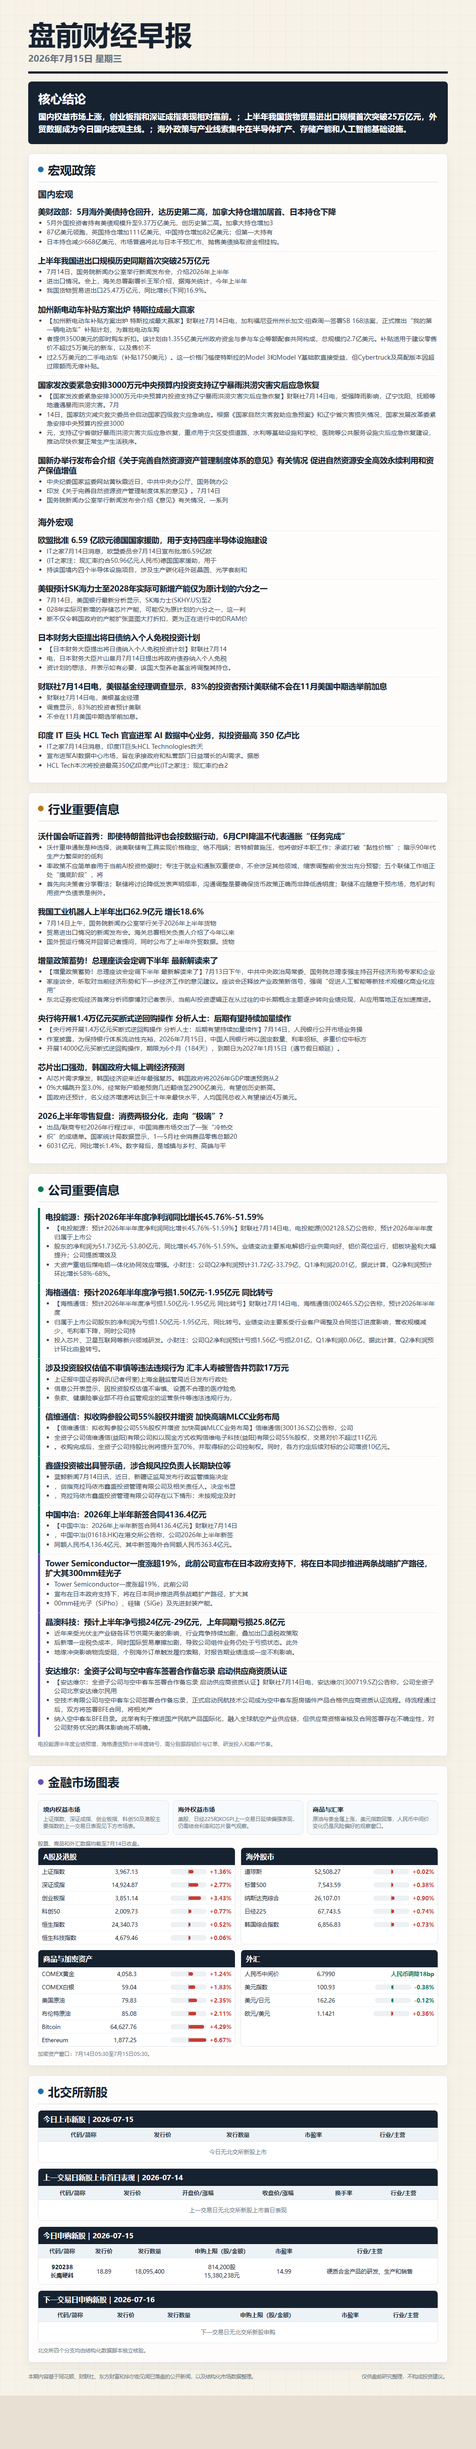
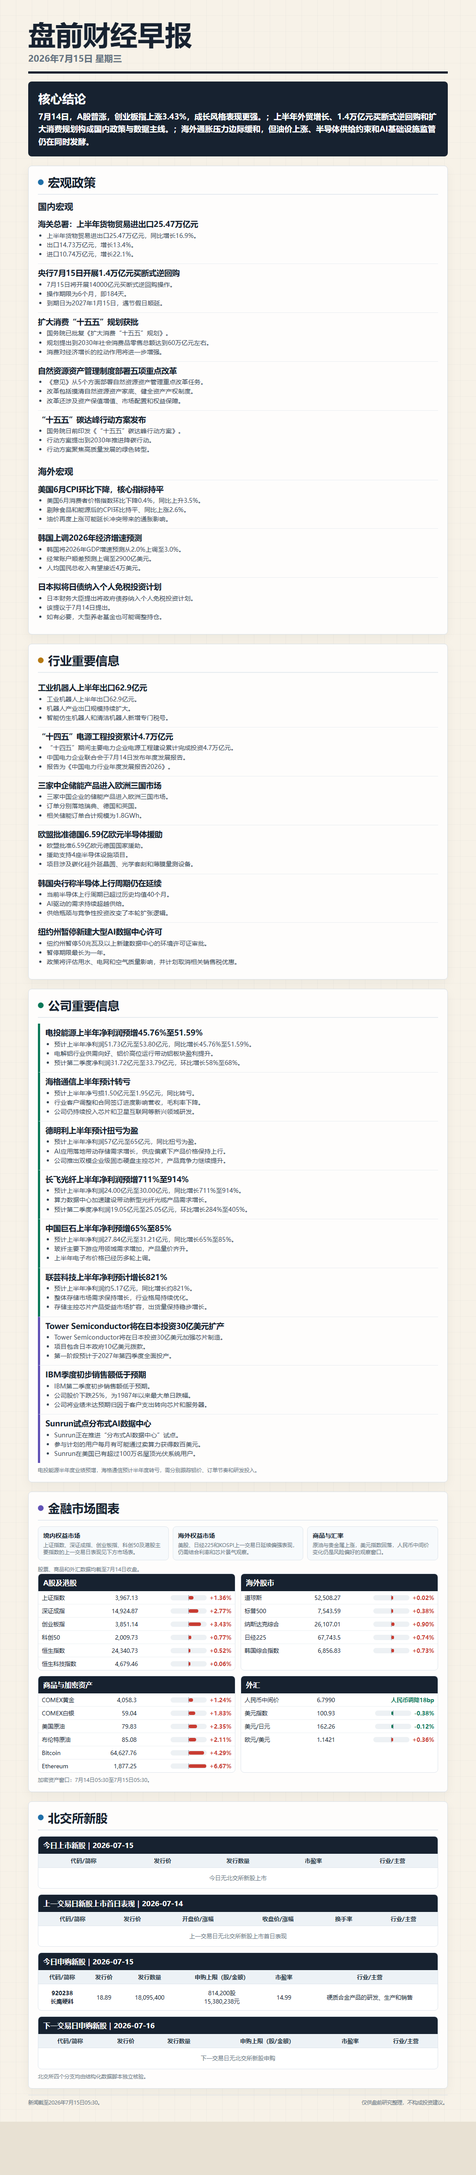
Correct 2026-07-15 morning brief

Changed region(s): [[0.0611, 0.0, 0.9472, 0.9672]]

diff --git a/2026-07-15/report.html b/2026-07-15/report.html
@@ -23,111 +23,103 @@
 </head>
 <body><main class="sheet">
   <header><h1>盘前财经早报</h1><div class="date">2026年7月15日 星期三</div></header>
-  <section class="lead"><h2>核心结论</h2><p>国内权益市场上涨，创业板指和深证成指表现相对靠前。；上半年我国货物贸易进出口规模首次突破25万亿元，外贸数据成为今日国内宏观主线。；海外政策与产业线索集中在半导体扩产、存储产能和人工智能基础设施。</p></section>
+  <section class="lead"><h2>核心结论</h2><p>7月14日，A股普涨，创业板指上涨3.43%，成长风格表现更强。；上半年外贸增长、1.4万亿元买断式逆回购和扩大消费规划构成国内政策与数据主线。；海外通胀压力边际缓和，但油价上涨、半导体供给约束和AI基础设施监管仍在同时发酵。</p></section>
   <section class="section"><h2 class="section-title"><span class="dot"></span>宏观政策</h2><h3 class="subhead">国内宏观</h3>
     <article class="item ">
-      <h4>美财政部：5月海外美债持仓回升，达历史第二高，加拿大持仓增加居首、日本持仓下降</h4>
-      <ul><li>5月外国投资者持有美债规模升至9.37万亿美元，创历史第二高。加拿大持仓增加3</li><li>87亿美元领跑，英国持仓增加111亿美元、中国持仓增加82亿美元；但第一大持有</li><li>日本持仓减少668亿美元，市场普遍将此与日本干预汇市、抛售美债换取资金相挂钩。</li></ul>
+      <h4>海关总署：上半年货物贸易进出口25.47万亿元</h4>
+      <ul><li>上半年货物贸易进出口25.47万亿元，同比增长16.9%。</li><li>出口14.73万亿元，增长13.4%。</li><li>进口10.74万亿元，增长22.1%。</li></ul>
     </article>
     <article class="item ">
-      <h4>上半年我国进出口规模历史同期首次突破25万亿元</h4>
-      <ul><li>7月14日，国务院新闻办公室举行新闻发布会，介绍2026年上半年</li><li>进出口情况。会上，海关总署副署长王军介绍，据海关统计，今年上半年</li><li>我国货物贸易进出口25.47万亿元，同比增长(下同)16.9%。</li></ul>
+      <h4>央行7月15日开展1.4万亿元买断式逆回购</h4>
+      <ul><li>7月15日将开展14000亿元买断式逆回购操作。</li><li>操作期限为6个月，即184天。</li><li>到期日为2027年1月15日，遇节假日顺延。</li></ul>
     </article>
     <article class="item ">
-      <h4>加州新电动车补贴方案出炉 特斯拉成最大赢家</h4>
-      <ul><li>【加州新电动车补贴方案出炉 特斯拉成最大赢家】财联社7月14日电，加利福尼亚州州长加文·纽森周一签署SB 168法案，正式推出“我的第一辆电动车”补贴计划，为首批电动车购</li><li>者提供3500美元的即时购车折扣。该计划由1.355亿美元州政府资金与参与车企等额配套共同构成，总规模约2.7亿美元。补贴适用于建议零售价不超过5万美元的新车，以及售价不</li><li>过2.5万美元的二手电动车（补贴1750美元）。这一价格门槛使特斯拉的Model 3和Model Y基础款直接受益，但Cybertruck及高配版本因超过限额而无缘补贴。</li></ul>
+      <h4>扩大消费“十五五”规划获批</h4>
+      <ul><li>国务院已批复《扩大消费“十五五”规划》。</li><li>规划提出到2030年社会消费品零售总额达到60万亿元左右。</li><li>消费对经济增长的拉动作用将进一步增强。</li></ul>
     </article>
     <article class="item ">
-      <h4>国家发改委紧急安排3000万元中央预算内投资支持辽宁暴雨洪涝灾害灾后应急恢复</h4>
-      <ul><li>【国家发改委紧急安排3000万元中央预算内投资支持辽宁暴雨洪涝灾害灾后应急恢复】财联社7月14日电，受强降雨影响，辽宁沈阳、抚顺等地遭遇暴雨洪涝灾害。7月</li><li>14日，国家防灾减灾救灾委员会启动国家四级救灾应急响应。根据《国家自然灾害救助应急预案》和辽宁省灾害损失情况，国家发展改革委紧急安排中央预算内投资3000</li><li>元，支持辽宁省做好暴雨洪涝灾害灾后应急恢复，重点用于灾区受损道路、水利等基础设施和学校、医院等公共服务设施灾后应急恢复建设，推动尽快恢复正常生产生活秩序。</li></ul>
+      <h4>自然资源资产管理制度部署五项重点改革</h4>
+      <ul><li>《意见》从5个方面部署自然资源资产管理重点改革任务。</li><li>改革包括摸清自然资源资产家底、健全资产产权制度。</li><li>改革还涉及资产保值增值、市场配置和权益保障。</li></ul>
     </article>
     <article class="item ">
-      <h4>国新办举行发布会介绍《关于完善自然资源资产管理制度体系的意见》有关情况 促进自然资源安全高效永续利用和资产保值增值</h4>
-      <ul><li>中央纪委国家监委网站黄秋霞近日，中共中央办公厅、国务院办公</li><li>印发《关于完善自然资源资产管理制度体系的意见》。7月14日</li><li>国务院新闻办公室举行新闻发布会介绍《意见》有关情况，一系列</li></ul>
+      <h4>“十五五”碳达峰行动方案发布</h4>
+      <ul><li>国务院日前印发《“十五五”碳达峰行动方案》。</li><li>行动方案提出到2030年推进降碳行动。</li><li>行动方案聚焦高质量发展的绿色转型。</li></ul>
     </article><h3 class="subhead">海外宏观</h3>
     <article class="item ">
-      <h4>欧盟批准 6.59 亿欧元德国国家援助，用于支持四座半导体设施建设</h4>
-      <ul><li>IT之家7月14日消息，欧盟委员会7月14日宣布批准6.59亿欧</li><li>(IT之家注：现汇率约合50.96亿元人民币)德国国家援助，用于</li><li>持该国境内四个半导体设施项目，涉及生产碳化硅外延晶圆、光学套刻和</li></ul>
+      <h4>美国6月CPI环比下降，核心指标持平</h4>
+      <ul><li>美国6月消费者价格指数环比下降0.4%，同比上升3.5%。</li><li>剔除食品和能源后的CPI环比持平、同比上涨2.6%。</li><li>油价再度上涨可能延长冲突带来的通胀影响。</li></ul>
     </article>
     <article class="item ">
-      <h4>美银预计SK海力士至2028年实际可新增产能仅为原计划的六分之一</h4>
-      <ul><li>7月14日，美国银行最新分析显示，SK海力士(SKHY.US)至2</li><li>028年实际可新增的存储芯片产能，可能仅为原计划的六分之一，这一判</li><li>断不仅令韩国政府的产能扩张蓝图大打折扣，更为正在进行中的DRAM价</li></ul>
+      <h4>韩国上调2026年经济增速预测</h4>
+      <ul><li>韩国将2026年GDP增速预测从2.0%上调至3.0%。</li><li>经常账户顺差预测上调至2900亿美元。</li><li>人均国民总收入有望接近4万美元。</li></ul>
     </article>
     <article class="item ">
-      <h4>日本财务大臣提出将日债纳入个人免税投资计划</h4>
-      <ul><li>【日本财务大臣提出将日债纳入个人免税投资计划】财联社7月14</li><li>电，日本财务大臣片山皋月7月14日提出将政府债券纳入个人免税</li><li>资计划的想法，并表示如有必要，该国大型养老基金将调整其持仓。</li></ul>
-    </article>
-    <article class="item ">
-      <h4>财联社7月14日电，美银基金经理调查显示，83%的投资者预计美联储不会在11月美国中期选举前加息</h4>
-      <ul><li>财联社7月14日电，美银基金经理</li><li>调查显示，83%的投资者预计美联</li><li>不会在11月美国中期选举前加息。</li></ul>
-    </article>
-    <article class="item ">
-      <h4>印度 IT 巨头 HCL Tech 官宣进军 AI 数据中心业务，拟投资最高 350 亿卢比</h4>
-      <ul><li>IT之家7月14日消息，印度IT巨头HCL Technologies昨天</li><li>宣布进军AI数据中心市场，旨在承接政府和私营部门日益增长的AI需求。据悉</li><li>HCL Tech本次将投资最高350亿印度卢比(IT之家注：现汇率约合2</li></ul>
+      <h4>日本拟将日债纳入个人免税投资计划</h4>
+      <ul><li>日本财务大臣提出将政府债券纳入个人免税投资计划。</li><li>该提议于7月14日提出。</li><li>如有必要，大型养老基金也可能调整持仓。</li></ul>
     </article></section>
   <section class="section"><h2 class="section-title"><span class="dot" style="background:var(--gold)"></span>行业重要信息</h2>
     <article class="item ">
-      <h4>沃什国会听证首秀：即使特朗普批评也会按数据行动，6月CPI降温不代表通胀“任务完成”</h4>
-      <ul><li>沃什重申通胀是种选择，说美联储有工具实现价格稳定、绝不甩锅；若特朗普施压，他将做好本职工作；承诺打破“黏性价格”；暗示90年代生产力繁荣时的低利</li><li>率政策不应简单套用于当前AI投资热潮时；专注于就业和通胀双重使命，不会涉足其他领域，缩表调整前会发出充分预警；五个联储工作组正处“摸底阶段”，将</li><li>首先向决策者分享看法；联储将讨论降低发表声明频率，沟通调整是要确保货币政策正确而非降低透明度；联储不应随意干预市场，危机时利用资产负债表是例外。</li></ul>
+      <h4>工业机器人上半年出口62.9亿元</h4>
+      <ul><li>工业机器人上半年出口62.9亿元。</li><li>机器人产业出口规模持续扩大。</li><li>智能仿生机器人和清洁机器人新增专门税号。</li></ul>
     </article>
     <article class="item ">
-      <h4>我国工业机器人上半年出口62.9亿元 增长18.6%</h4>
-      <ul><li>7月14日上午，国务院新闻办公室举行关于2026年上半年货物</li><li>贸易进出口情况的新闻发布会。海关总署相关负责人介绍了今年以来</li><li>国外贸运行情况并回答记者提问，同时公布了上半年外贸数据。货物</li></ul>
+      <h4>“十四五”电源工程投资累计4.7万亿元</h4>
+      <ul><li>“十四五”期间主要电力企业电源工程建设累计完成投资4.7万亿元。</li><li>中国电力企业联合会于7月14日发布年度发展报告。</li><li>报告为《中国电力行业年度发展报告2026》。</li></ul>
     </article>
     <article class="item ">
-      <h4>增量政策蓄势！总理座谈会定调下半年 最新解读来了</h4>
-      <ul><li>【增量政策蓄势！总理座谈会定调下半年 最新解读来了】7月13日下午，中共中央政治局常委、国务院总理李强主持召开经济形势专家和企业</li><li>家座谈会，听取对当前经济形势和下一步经济工作的意见建议。座谈会还释放产业政策新信号，强调“促进人工智能等新技术规模化商业化应用”</li><li>东北证券宏观经济首席分析师廖博对记者表示，当前AI投资逻辑正在从过往的中长期概念主题逐步转向业绩兑现，AI应用落地正在加速推进。</li></ul>
+      <h4>三家中企储能产品进入欧洲三国市场</h4>
+      <ul><li>三家中国企业的储能产品进入欧洲三国市场。</li><li>订单分别落地瑞典、德国和英国。</li><li>相关储能订单合计规模为1.8GWh。</li></ul>
     </article>
     <article class="item ">
-      <h4>央行将开展1.4万亿元买断式逆回购操作 分析人士：后期有望持续加量续作</h4>
-      <ul><li>【央行将开展1.4万亿元买断式逆回购操作 分析人士：后期有望持续加量续作】7月14日，人民银行公开市场业务操</li><li>作室披露，为保持银行体系流动性充裕，2026年7月15日，中国人民银行将以固定数量、利率招标、多重价位中标方</li><li>开展14000亿元买断式逆回购操作，期限为6个月（184天），到期日为2027年1月15日（遇节假日顺延）。</li></ul>
+      <h4>欧盟批准德国6.59亿欧元半导体援助</h4>
+      <ul><li>欧盟批准6.59亿欧元德国国家援助。</li><li>援助支持4座半导体设施项目。</li><li>项目涉及碳化硅外延晶圆、光学套刻和薄膜量测设备。</li></ul>
     </article>
     <article class="item ">
-      <h4>芯片出口强劲，韩国政府大幅上调经济预测</h4>
-      <ul><li>AI芯片需求爆发，韩国经济迎来近年最强复苏。韩国政府将2026年GDP增速预测从2</li><li>0%大幅跳升至3.0%，经常账户顺差预测几近翻倍至2900亿美元，有望创历史新高。</li><li>国政府还预计，名义经济增速将达到三十年来最快水平，人均国民总收入有望接近4万美元。</li></ul>
+      <h4>韩国央行称半导体上行周期仍在延续</h4>
+      <ul><li>当前半导体上行周期已超过历史均值40个月。</li><li>AI驱动的需求持续超越供给。</li><li>供给瓶颈与竞争性投资改变了本轮扩张逻辑。</li></ul>
     </article>
     <article class="item ">
-      <h4>2026上半年零售复盘：消费两极分化，走向“极端”？</h4>
-      <ul><li>出品/联商专栏2026年行程过半，中国消费市场交出了一张“冷热交</li><li>织”的成绩单。国家统计局数据显示，1—5月社会消费品零售总额20</li><li>6031亿元，同比增长1.4%。数字背后，是城镇与乡村、高端与平</li></ul>
+      <h4>纽约州暂停新建大型AI数据中心许可</h4>
+      <ul><li>纽约州暂停50兆瓦及以上新建数据中心的环境许可证审批。</li><li>暂停期限最长为一年。</li><li>政策将评估用水、电网和空气质量影响，并计划取消相关销售税优惠。</li></ul>
     </article></section>
   <section class="section"><h2 class="section-title"><span class="dot" style="background:var(--green)"></span>公司重要信息</h2>
     <article class="item company-line">
-      <h4>电投能源：预计2026年半年度净利润同比增长45.76%-51.59%</h4>
-      <ul><li>【电投能源：预计2026年半年度净利润同比增长45.76%-51.59%】财联社7月14日电，电投能源(002128.SZ)公告称，预计2026年半年度归属于上市公</li><li>股东的净利润为51.73亿元-53.80亿元，同比增长45.76%-51.59%。业绩变动主要系电解铝行业供需向好、铝价高位运行，铝板块盈利大幅提升；公司提质增效及</li><li>大资产重组后煤电铝一体化协同效应增强。小财注：公司Q2净利润预计31.72亿-33.79亿，Q1净利润20.01亿，据此计算，Q2净利润预计环比增长58%-68%。</li></ul>
+      <h4>电投能源上半年净利润预增45.76%至51.59%</h4>
+      <ul><li>预计上半年净利润51.73亿元至53.80亿元，同比增长45.76%至51.59%。</li><li>电解铝行业供需向好、铝价高位运行带动铝板块盈利提升。</li><li>预计第二季度净利润31.72亿元至33.79亿元，环比增长58%至68%。</li></ul>
     </article>
     <article class="item company-line">
-      <h4>海格通信：预计2026年半年度净亏损1.50亿元-1.95亿元 同比转亏</h4>
-      <ul><li>【海格通信：预计2026年半年度净亏损1.50亿元-1.95亿元 同比转亏】财联社7月14日电，海格通信(002465.SZ)公告称，预计2026年半年度</li><li>归属于上市公司股东的净利润为亏损1.50亿元-1.95亿元，同比转亏。业绩变动主要系受行业客户调整及合同签订进度影响，营收规模减少，毛利率下降，同时公司持</li><li>投入芯片、卫星互联网等新兴领域研发。小财注：公司Q2净利润预计亏损1.56亿-亏损2.01亿，Q1净利润0.06亿，据此计算，Q2净利润预计环比由盈转亏。</li></ul>
+      <h4>海格通信上半年预计转亏</h4>
+      <ul><li>预计上半年净亏损1.50亿元至1.95亿元，同比转亏。</li><li>行业客户调整和合同签订进度影响营收，毛利率下降。</li><li>公司仍持续投入芯片和卫星互联网等新兴领域研发。</li></ul>
     </article>
     <article class="item company-line">
-      <h4>涉及投资股权估值不审慎等违法违规行为 汇丰人寿被警告并罚款17万元</h4>
-      <ul><li>上证报中国证券网讯(记者何奎)上海金融监管局近日发布行政处</li><li>信息公开表显示，因投资股权估值不审慎、设置不合理的医疗险免</li><li>条款、健康险事业部不符合监管规定的运营条件等违法违规行为，</li></ul>
+      <h4>德明利上半年预计扭亏为盈</h4>
+      <ul><li>预计上半年净利润57亿元至65亿元，同比扭亏为盈。</li><li>AI应用落地带动存储需求增长，供应偏紧下产品价格保持上行。</li><li>公司推出双模企业级固态硬盘主控芯片，产品竞争力继续提升。</li></ul>
     </article>
     <article class="item company-line">
-      <h4>信维通信：拟收购参股公司55%股权并增资 加快高端MLCC业务布局</h4>
-      <ul><li>【信维通信：拟收购参股公司55%股权并增资 加快高端MLCC业务布局】信维通信(300136.SZ)公告称，公司</li><li>全资子公司信维通信(益阳)有限公司拟以现金方式收购信维电子科技(益阳)有限公司55%股权，交易对价不超过11亿元</li><li>。收购完成后，全资子公司持股比例将提升至70%，并取得标的公司控制权。同时，各方约定后续对标的公司增资10亿元。</li></ul>
+      <h4>长飞光纤上半年净利润预增711%至914%</h4>
+      <ul><li>预计上半年净利润24.00亿元至30.00亿元，同比增长711%至914%。</li><li>算力数据中心加速建设带动新型光纤光缆产品需求增长。</li><li>预计第二季度净利润19.05亿元至25.05亿元，环比增长284%至405%。</li></ul>
     </article>
     <article class="item company-line">
-      <h4>鑫盛投资被出具警示函，涉合规风控负责人长期缺位等</h4>
-      <ul><li>蓝鲸新闻7月14日讯，近日，新疆证监局发布行政监管措施决定</li><li>，剑指克拉玛依市鑫盛投资管理有限公司及相关责任人。决定书显</li><li>，克拉玛依市鑫盛投资管理有限公司存在以下情形：未按规定及时</li></ul>
+      <h4>中国巨石上半年净利预增65%至85%</h4>
+      <ul><li>预计上半年净利润27.84亿元至31.21亿元，同比增长65%至85%。</li><li>玻纤主要下游应用领域需求增加，产品量价齐升。</li><li>上半年电子布价格已经历多轮上调。</li></ul>
     </article>
     <article class="item company-line">
-      <h4>中国中冶：2026年上半年新签合同4136.4亿元</h4>
-      <ul><li>【中国中冶：2026年上半年新签合同4136.4亿元】财联社7月14日</li><li>，中国中冶(01618.HK)在港交所公告称，公司2026年上半年新签</li><li>同额人民币4,136.4亿元，其中新签海外合同额人民币363.4亿元。</li></ul>
+      <h4>联芸科技上半年净利预计增长821%</h4>
+      <ul><li>预计上半年净利润约5.17亿元，同比增长约821%。</li><li>整体存储市场需求保持增长，行业格局持续优化。</li><li>存储主控芯片产品受益市场扩容，出货量保持稳步增长。</li></ul>
     </article>
     <article class="item company-line overseas">
-      <h4>Tower Semiconductor一度涨超19%，此前公司宣布在日本政府支持下，将在日本同步推进两条战略扩产路径，扩大其300mm硅光子</h4>
-      <ul><li>Tower Semiconductor一度涨超19%，此前公司</li><li>宣布在日本政府支持下，将在日本同步推进两条战略扩产路径，扩大其</li><li>00mm硅光子（SiPho）、硅锗（SiGe）及先进封装产能。</li></ul>
+      <h4>Tower Semiconductor将在日本投资30亿美元扩产</h4>
+      <ul><li>Tower Semiconductor将在日本投资30亿美元加强芯片制造。</li><li>项目包含日本政府10亿美元拨款。</li><li>第一阶段预计于2027年第四季度全面投产。</li></ul>
     </article>
     <article class="item company-line overseas">
-      <h4>晶澳科技：预计上半年净亏损24亿元-29亿元，上年同期亏损25.8亿元</h4>
-      <ul><li>近年来受光伏主产业链各环节供需失衡的影响，行业竞争持续加剧，叠加出口退税政策取</li><li>后新增一定税负成本，同时国际贸易摩擦加剧，导致公司组件业务仍处于亏损状态。此外</li><li>地缘冲突影响物流受阻，个别海外订单触发履约索赔，对报告期业绩造成一定不利影响。</li></ul>
+      <h4>IBM季度初步销售额低于预期</h4>
+      <ul><li>IBM第二季度初步销售额低于预期。</li><li>公司股价下跌25%，为1987年以来最大单日跌幅。</li><li>公司将业绩未达预期归因于客户支出转向芯片和服务器。</li></ul>
     </article>
     <article class="item company-line overseas">
-      <h4>安达维尔：全资子公司与空中客车签署合作备忘录 启动供应商资质认证</h4>
-      <ul><li>【安达维尔：全资子公司与空中客车签署合作备忘录 启动供应商资质认证】财联社7月14日电，安达维尔(300719.SZ)公告称，公司全资子公司北京安达维尔民用</li><li>空技术有限公司与空中客车公司签署合作备忘录，正式启动民航技术公司成为空中客车厨房插件产品合格供应商资质认证流程。待流程通过后，双方将签署BFE合同，将相关产</li><li>纳入空中客车BFE目录。此举有利于推进国产民航产品国际化，融入全球航空产业供应链，但供应商资格审核及合同签署存在不确定性，对公司财务状况的具体影响尚不明确。</li></ul>
-    </article><p class="check-note">电投能源半年度业绩预增，海格通信预计半年度转亏，需分别跟踪铝价与订单、研发投入和客户节奏。</p></section>
+      <h4>Sunrun试点分布式AI数据中心</h4>
+      <ul><li>Sunrun正在推进“分布式AI数据中心”试点。</li><li>参与计划的用户每月有可能通过卖算力获得数百美元。</li><li>Sunrun在美国已有超过100万名屋顶光伏系统用户。</li></ul>
+    </article><p class="check-note">电投能源半年度业绩预增，海格通信预计半年度转亏，需分别跟踪铝价、订单节奏和研发投入。</p></section>
   <section class="section"><h2 class="section-title"><span class="dot" style="background:var(--violet)"></span>金融市场图表</h2><div class="market-headlines"><div class="market-note"><b>境内权益市场</b><span>上证指数、深证成指、创业板指、科创50及港股主要指数的上一交易日表现见下方市场表。</span></div><div class="market-note"><b>海外权益市场</b><span>美股、日经225和KOSPI上一交易日延续偏强表现，仍需结合利率和芯片景气观察。</span></div><div class="market-note"><b>商品与汇率</b><span>原油与贵金属上涨，美元指数回落，人民币中间价变化仍是风险偏好的观察窗口。</span></div></div><p class="market-caption">股票、商品和外汇数据均截至7月14日收盘。</p><div class="market-grid"><div class="market-box"><h3>A股及港股</h3><table><tr><td>上证指数</td><td>3,967.13</td><td><span class="bar-wrap"><span class="bar pos upb" style="width:10.9px"></span></span><span class="up">+1.36%</span></td></tr><tr><td>深证成指</td><td>14,924.87</td><td><span class="bar-wrap"><span class="bar pos upb" style="width:22.1px"></span></span><span class="up">+2.77%</span></td></tr><tr><td>创业板指</td><td>3,851.14</td><td><span class="bar-wrap"><span class="bar pos upb" style="width:27.4px"></span></span><span class="up">+3.43%</span></td></tr><tr><td>科创50</td><td>2,009.73</td><td><span class="bar-wrap"><span class="bar pos upb" style="width:6.2px"></span></span><span class="up">+0.77%</span></td></tr><tr><td>恒生指数</td><td>24,340.73</td><td><span class="bar-wrap"><span class="bar pos upb" style="width:4.2px"></span></span><span class="up">+0.52%</span></td></tr><tr><td>恒生科技指数</td><td>4,679.46</td><td><span class="bar-wrap"><span class="bar pos upb" style="width:4.0px"></span></span><span class="up">+0.06%</span></td></tr></table></div><div class="market-box"><h3>海外股市</h3><table><tr><td>道琼斯</td><td>52,508.27</td><td><span class="bar-wrap"><span class="bar pos upb" style="width:4.0px"></span></span><span class="up">+0.02%</span></td></tr><tr><td>标普500</td><td>7,543.59</td><td><span class="bar-wrap"><span class="bar pos upb" style="width:4.0px"></span></span><span class="up">+0.38%</span></td></tr><tr><td>纳斯达克综合</td><td>26,107.01</td><td><span class="bar-wrap"><span class="bar pos upb" style="width:7.2px"></span></span><span class="up">+0.90%</span></td></tr><tr><td>日经225</td><td>67,743.5</td><td><span class="bar-wrap"><span class="bar pos upb" style="width:6.0px"></span></span><span class="up">+0.74%</span></td></tr><tr><td>韩国综合指数</td><td>6,856.83</td><td><span class="bar-wrap"><span class="bar pos upb" style="width:5.9px"></span></span><span class="up">+0.73%</span></td></tr></table></div><div class="market-box"><h3>商品与加密资产</h3><table><tr><td>COMEX黄金</td><td>4,058.3</td><td><span class="bar-wrap"><span class="bar pos upb" style="width:9.9px"></span></span><span class="up">+1.24%</span></td></tr><tr><td>COMEX白银</td><td>59.04</td><td><span class="bar-wrap"><span class="bar pos upb" style="width:14.6px"></span></span><span class="up">+1.83%</span></td></tr><tr><td>美国原油</td><td>79.83</td><td><span class="bar-wrap"><span class="bar pos upb" style="width:18.8px"></span></span><span class="up">+2.35%</span></td></tr><tr><td>布伦特原油</td><td>85.08</td><td><span class="bar-wrap"><span class="bar pos upb" style="width:16.9px"></span></span><span class="up">+2.11%</span></td></tr><tr><td>Bitcoin</td><td>64,627.76</td><td><span class="bar-wrap"><span class="bar pos upb" style="width:34.3px"></span></span><span class="up">+4.29%</span></td></tr><tr><td>Ethereum</td><td>1,877.25</td><td><span class="bar-wrap"><span class="bar pos upb" style="width:40.0px"></span></span><span class="up">+6.67%</span></td></tr></table></div><div class="market-box"><h3>外汇</h3><table><tr><td>人民币中间价</td><td>6.7990</td><td><span class="down">人民币调降18bp</span></td></tr><tr><td>美元指数</td><td>100.93</td><td><span class="bar-wrap"><span class="bar neg downb" style="width:4.0px"></span></span><span class="down">-0.38%</span></td></tr><tr><td>美元/日元</td><td>162.26</td><td><span class="bar-wrap"><span class="bar neg downb" style="width:4.0px"></span></span><span class="down">-0.12%</span></td></tr><tr><td>欧元/美元</td><td>1.1421</td><td><span class="bar-wrap"><span class="bar pos upb" style="width:4.0px"></span></span><span class="up">+0.36%</span></td></tr></table></div></div><p class="market-caption">加密资产窗口：7月14日05:30至7月15日05:30。</p></section>
   <section class="section"><h2 class="section-title"><span class="dot" style="background:var(--blue)"></span>北交所新股</h2><div class="ipo-box"><h3>今日上市新股｜2026-07-15</h3><table class="ipo-table"><tr><th>代码/简称</th><th>发行价</th><th>发行数量</th><th>市盈率</th><th>行业/主营</th></tr><tr><td class="empty" colspan="5">今日无北交所新股上市</td></tr></table></div><div class="ipo-box"><h3>上一交易日新股上市首日表现｜2026-07-14</h3><table class="ipo-table"><tr><th>代码/简称</th><th>发行价</th><th>开盘价/涨幅</th><th>收盘价/涨幅</th><th>换手率</th><th>行业/主营</th></tr><tr><td class="empty" colspan="6">上一交易日无北交所新股上市首日表现</td></tr></table></div><div class="ipo-box"><h3>今日申购新股｜2026-07-15</h3><table class="ipo-table"><tr><th>代码/简称</th><th>发行价</th><th>发行数量</th><th>申购上限（股/金额）</th><th>市盈率</th><th>行业/主营</th></tr><tr><td class="codecell">920238<br>长鹰硬科</td><td>18.89</td><td>18,095,400</td><td class="shares">814,200股<br>15,380,238元</td><td>14.99</td><td>硬质合金产品的研发、生产和销售</td></tr></table></div><div class="ipo-box"><h3>下一交易日申购新股｜2026-07-16</h3><table class="ipo-table"><tr><th>代码/简称</th><th>发行价</th><th>发行数量</th><th>申购上限（股/金额）</th><th>市盈率</th><th>行业/主营</th></tr><tr><td class="empty" colspan="6">下一交易日无北交所新股申购</td></tr></table></div><div class="check-note">北交所四个分支均由结构化数据脚本独立核验。</div></section>
-  <footer><div>本期内容基于同花顺、财联社、东方财富和华尔街见闻已落盘的公开新闻，以及结构化市场数据整理。</div><div>仅供盘前研究整理，不构成投资建议。</div></footer>
+  <footer><div>新闻截至2026年7月15日05:30。</div><div>仅供盘前研究整理，不构成投资建议。</div></footer>
 </main></body></html>

diff --git a/2026-07-15/sources-2026-07-15.md b/2026-07-15/sources-2026-07-15.md
@@ -10,28 +10,26 @@
 - 华尔街见闻: ok, 664 candidates - https://api-one.wallstcn.com/apiv1/content/lives?channel=global-channel
 
 ## Selected article URLs
-- domesticMacro: 美财政部：5月海外美债持仓回升，达历史第二高，加拿大持仓增加居首、日本持仓下降 - https://wallstreetcn.com/articles/3776943
-- domesticMacro: 上半年我国进出口规模历史同期首次突破25万亿元 - http://news.10jqka.com.cn/20260715/c678178934.shtml
-- domesticMacro: 加州新电动车补贴方案出炉 特斯拉成最大赢家 - https://www.cls.cn/detail/2426392
-- domesticMacro: 国家发改委紧急安排3000万元中央预算内投资支持辽宁暴雨洪涝灾害灾后应急恢复 - https://www.cls.cn/detail/2425884
-- domesticMacro: 国新办举行发布会介绍《关于完善自然资源资产管理制度体系的意见》有关情况 促进自然资源安全高效永续利用和资产保值增值 - http://news.10jqka.com.cn/20260714/c678177731.shtml
-- overseasMacro: 欧盟批准 6.59 亿欧元德国国家援助，用于支持四座半导体设施建设 - http://news.10jqka.com.cn/20260714/c678173812.shtml
-- overseasMacro: 美银预计SK海力士至2028年实际可新增产能仅为原计划的六分之一 - http://news.10jqka.com.cn/20260714/c678173387.shtml
-- overseasMacro: 日本财务大臣提出将日债纳入个人免税投资计划 - https://www.cls.cn/detail/2425852
-- overseasMacro: 财联社7月14日电，美银基金经理调查显示，83%的投资者预计美联储不会在11月美国中期选举前加息 - https://www.cls.cn/detail/2425783
-- overseasMacro: 印度 IT 巨头 HCL Tech 官宣进军 AI 数据中心业务，拟投资最高 350 亿卢比 - http://news.10jqka.com.cn/20260714/c678161048.shtml
-- industry: 沃什国会听证首秀：即使特朗普批评也会按数据行动，6月CPI降温不代表通胀“任务完成” - https://wallstreetcn.com/articles/3776932
-- industry: 我国工业机器人上半年出口62.9亿元 增长18.6% - http://field.10jqka.com.cn/20260715/c678179204.shtml
-- industry: 增量政策蓄势！总理座谈会定调下半年 最新解读来了 - https://finance.eastmoney.com/a/202607143806166595.html
-- industry: 央行将开展1.4万亿元买断式逆回购操作 分析人士：后期有望持续加量续作 - https://finance.eastmoney.com/a/202607153806204289.html
-- industry: 芯片出口强劲，韩国政府大幅上调经济预测 - https://wallstreetcn.com/articles/3776876
-- industry: 2026上半年零售复盘：消费两极分化，走向“极端”？ - http://field.10jqka.com.cn/20260714/c678170078.shtml
-- domesticCompanies: 电投能源：预计2026年半年度净利润同比增长45.76%-51.59% - https://www.cls.cn/detail/2426239
-- domesticCompanies: 海格通信：预计2026年半年度净亏损1.50亿元-1.95亿元 同比转亏 - https://www.cls.cn/detail/2426157
-- domesticCompanies: 涉及投资股权估值不审慎等违法违规行为 汇丰人寿被警告并罚款17万元 - http://news.10jqka.com.cn/20260714/c678157531.shtml
-- domesticCompanies: 信维通信：拟收购参股公司55%股权并增资 加快高端MLCC业务布局 - https://finance.eastmoney.com/a/202607143805949662.html
-- domesticCompanies: 鑫盛投资被出具警示函，涉合规风控负责人长期缺位等 - http://news.10jqka.com.cn/20260714/c678171067.shtml
-- domesticCompanies: 中国中冶：2026年上半年新签合同4136.4亿元 - https://www.cls.cn/detail/2426072
-- overseasCompanies: Tower Semiconductor一度涨超19%，此前公司宣布在日本政府支持下，将在日本同步推进两条战略扩产路径，扩大其300mm硅光子 - https://wallstreetcn.com/livenews/3133704
-- overseasCompanies: 晶澳科技：预计上半年净亏损24亿元-29亿元，上年同期亏损25.8亿元 - https://wallstreetcn.com/livenews/3133677
-- overseasCompanies: 安达维尔：全资子公司与空中客车签署合作备忘录 启动供应商资质认证 - https://www.cls.cn/detail/2426250
+- domesticMacro: 海关总署：上半年货物贸易进出口25.47万亿元 - http://news.10jqka.com.cn/20260714/c678155565.shtml
+- domesticMacro: 央行7月15日开展1.4万亿元买断式逆回购 - https://www.cls.cn/detail/2425970
+- domesticMacro: 扩大消费“十五五”规划获批 - https://finance.eastmoney.com/a/202607153806265249.html
+- domesticMacro: 自然资源资产管理制度部署五项重点改革 - https://wallstreetcn.com/livenews/3133394
+- domesticMacro: “十五五”碳达峰行动方案发布 - http://field.10jqka.com.cn/20260715/c678179072.shtml
+- overseasMacro: 美国6月CPI环比下降，核心指标持平 - https://wallstreetcn.com/livenews/3133671
+- overseasMacro: 韩国上调2026年经济增速预测 - https://wallstreetcn.com/articles/3776876
+- overseasMacro: 日本拟将日债纳入个人免税投资计划 - https://www.cls.cn/detail/2425852
+- industry: 工业机器人上半年出口62.9亿元 - https://finance.eastmoney.com/a/202607143805282271.html
+- industry: “十四五”电源工程投资累计4.7万亿元 - http://field.10jqka.com.cn/20260715/c678179336.shtml
+- industry: 三家中企储能产品进入欧洲三国市场 - http://field.10jqka.com.cn/20260714/c678173979.shtml
+- industry: 欧盟批准德国6.59亿欧元半导体援助 - https://finance.eastmoney.com/a/202607143805763188.html
+- industry: 韩国央行称半导体上行周期仍在延续 - https://wallstreetcn.com/articles/3776872
+- industry: 纽约州暂停新建大型AI数据中心许可 - https://wallstreetcn.com/articles/3776903
+- domesticCompanies: 电投能源上半年净利润预增45.76%至51.59% - https://www.cls.cn/detail/2426239
+- domesticCompanies: 海格通信上半年预计转亏 - https://www.cls.cn/detail/2426157
+- domesticCompanies: 德明利上半年预计扭亏为盈 - https://www.cls.cn/detail/2426068
+- domesticCompanies: 长飞光纤上半年净利润预增711%至914% - https://finance.eastmoney.com/a/202607143805605337.html
+- domesticCompanies: 中国巨石上半年净利预增65%至85% - https://www.cls.cn/detail/2426422
+- domesticCompanies: 联芸科技上半年净利预计增长821% - https://www.cls.cn/detail/2426219
+- overseasCompanies: Tower Semiconductor将在日本投资30亿美元扩产 - https://www.cls.cn/detail/2426298
+- overseasCompanies: IBM季度初步销售额低于预期 - https://finance.eastmoney.com/a/202607143806036196.html
+- overseasCompanies: Sunrun试点分布式AI数据中心 - https://www.cls.cn/detail/2425234
